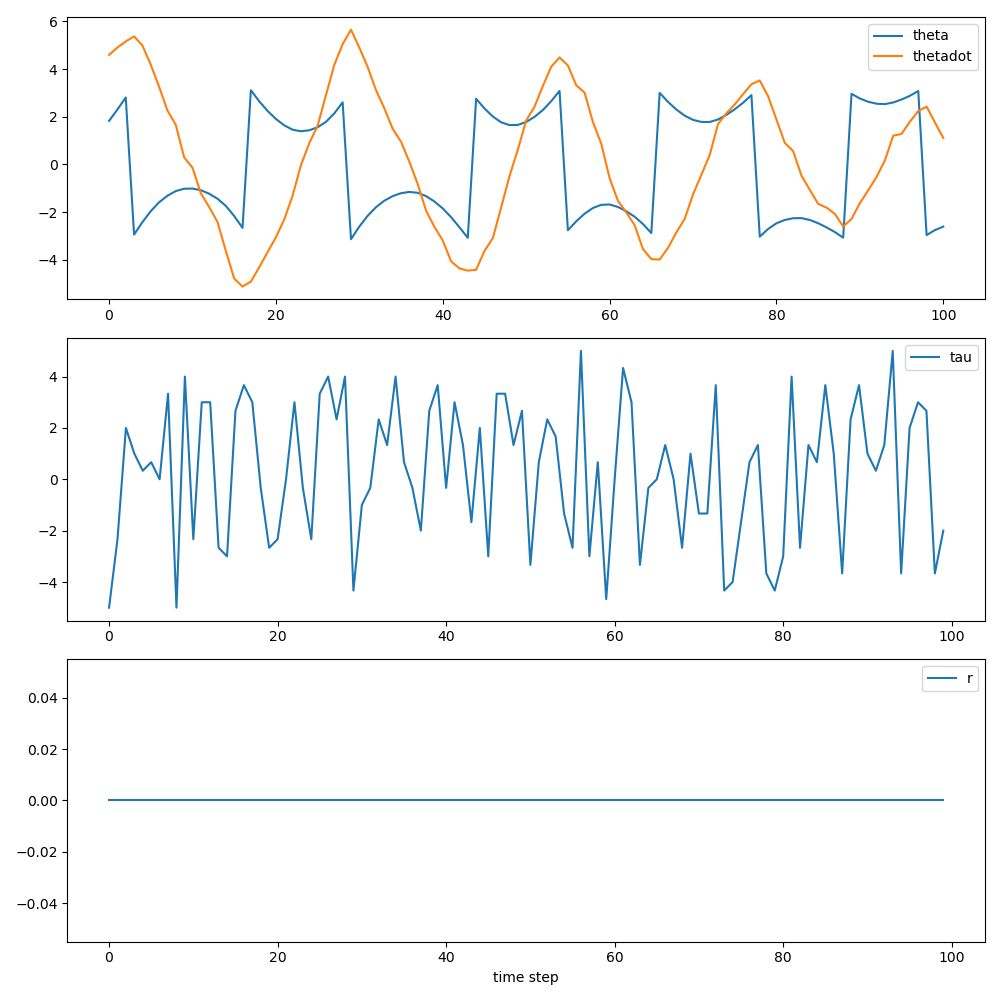
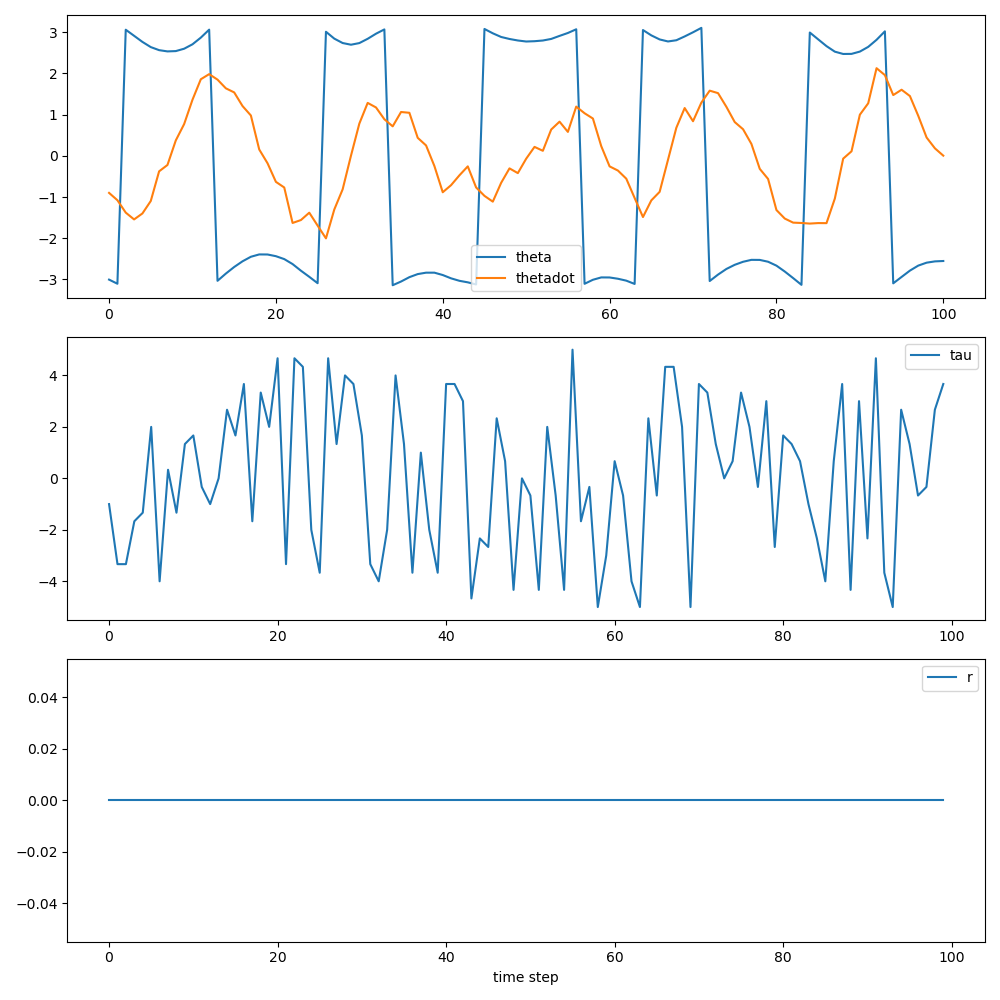
some plots

diff --git a/DQN.py b/DQN.py
@@ -1,0 +1,141 @@
+import torch 
+import torch.nn as nn
+import torch.nn.functional as F
+import torch.optim as optim
+import numpy as np
+import random 
+from collections import namedtuple, deque 
+import itertools
+
+
+device = torch.device("cuda" if torch.cuda.is_available() else "cpu")
+
+Transition = namedtuple('Transition', ('state', 'action', 'next_state', 'reward'))
+
+# create the Deep Q network
+class DeepQNet(nn.Module):
+    def __init__(self, num_state, num_action):
+        super(DeepQNet,self).__init__()
+        num_nodes = 64
+        self.layer1 = nn.Linear(num_state,num_nodes)
+        self.layer2 = nn.Linear(num_nodes,num_nodes)
+        self.layer3 = nn.Linear(num_nodes,num_action)
+
+    def forward(self, x):
+        # mapping state to action values
+        x = torch.tanh(self.layer1(x))
+        x = torch.tanh(self.layer2(x))
+        return self.layer3(x)
+
+# Replay buffer for storing experience
+class ReplayBuffer():
+    def __init__(self, capacity):
+        self.capacity = capacity
+        self.memory = deque(maxlen=capacity)
+
+    def add(self, *args):
+        # add a new memory
+        self.memory.append(Transition(*args))
+
+    def sample(self, batch_size):
+        # sample a random memory
+        return random.sample(self.memory, batch_size)
+
+    def __len__(self):
+        # return length of memory
+        return len(self.memory)
+
+# DQN agent that interacts with the environment
+class Agent():
+    def __init__(self, num_state, num_action, alpha, gamma, batch_size):
+        self.num_state = num_state
+        self.num_action = num_action
+        self.batch_size = batch_size
+        self.gamma = gamma
+
+        self.local_net = DeepQNet(num_state, num_action).to(device)
+        self.target_net = DeepQNet(num_state, num_action).to(device)
+
+        self.optimizer = optim.Adam(self.local_net.parameters(), alpha)
+
+        self.memory = ReplayBuffer(10000)
+
+        self.steps = 0
+
+    def choose_action(self, state):
+        if not torch.is_tensor(state): state = torch.tensor(state, dtype=torch.float).unsqueeze(0)
+
+        with torch.no_grad():
+            return self.local_net(state).max(1)[1].view(1, 1)
+
+    def optimize(self):
+        if len(self.memory) < self.batch_size: return
+
+        transitions = self.memory.sample(self.batch_size)
+        batch = Transition(*zip(*transitions))
+
+        non_final_mask = torch.tensor(tuple(map(lambda s: s is not None, batch.next_state)), device=device, dtype=torch.bool) # transitions that do not lead to terminal states
+        non_final_next_states = torch.cat([s for s in batch.next_state if s is not None]) 
+
+        # values of states, actions, and rewards
+        state_batch = torch.cat(batch.state)
+        action_batch = torch.cat(batch.action)
+        reward_batch = torch.cat(batch.reward)
+        reward_batch = reward_batch.flatten()
+
+        state_action_values = self.local_net(state_batch).gather(1, action_batch)
+        next_state_values = torch.zeros(self.batch_size)
+
+        with torch.no_grad():
+            next_state_values[non_final_mask] = self.target_net(non_final_next_states).max(1)[0]
+        
+        expected_state_action_values = (next_state_values * self.gamma) + reward_batch
+
+        criterion = nn.SmoothL1Loss()
+        loss = criterion(state_action_values,expected_state_action_values.unsqueeze(1))
+        self.optimizer.zero_grad()
+        loss.backward()
+
+        # gradient clipping
+        # clip_value = 1
+        # for p in self.local_net.parameters():
+        #     p.register_hook(lambda grad: torch.clamp(grad, -clip_value, clip_value))
+
+        nn.utils.clip_grad_value_(self.local_net.parameters(), 100)
+
+        self.optimizer.step()
+
+    def train(self, num_episodes, env, reset_num):
+        rewards = []
+
+        for ep in range(num_episodes):
+            print(ep)
+            state = env.reset()
+            state = torch.tensor(state, dtype=torch.float, device=device).unsqueeze(0)
+            reward = 0
+
+            for t in itertools.count():
+                # print(ep, t)
+                action = self.choose_action(state)
+
+                next_state, reward_t, done = env.step(action.item())
+                next_state = torch.tensor(next_state, dtype=torch.float, device=device).unsqueeze(0)
+                reward_t = torch.tensor([reward_t], dtype=torch.float, device=device).unsqueeze(0)
+                reward += reward_t.item()
+                
+                self.memory.add(state, action, next_state, reward_t)
+                state = next_state
+
+                self.optimize()
+
+                if done: break
+
+            rewards.append(reward)
+
+            if ep % reset_num == 0:
+                self.target_net.load_state_dict(self.local_net.state_dict())
+
+        return rewards
+
+
+

diff --git a/train_discreteaction_pendulum.py b/train_discreteaction_pendulum.py
@@ -1,0 +1,139 @@
+import DQN
+import discreteaction_pendulum
+import torch
+import itertools
+import matplotlib.pyplot as plt
+import random
+import numpy as np
+
+def main():
+    env = discreteaction_pendulum.Pendulum()
+    device = torch.device("cuda" if torch.cuda.is_available() else "cpu")
+
+    alpha = 1e-4
+    gamma = 0.95
+    batch_size = 128
+    num_episodes = 100
+    reset_num = 10
+
+    agent = DQN.Agent(env.num_states, env.num_actions, alpha, gamma, batch_size)
+    rewards = agent.train(num_episodes, env, reset_num)
+
+    # rewards = []
+
+    # for ep in range(num_episodes):
+    #     print(ep)
+    #     state = env.reset()
+    #     state = torch.tensor(state, dtype=torch.float, device=device).unsqueeze(0)
+    #     reward = 0
+
+    #     for t in itertools.count():
+    #         # print(ep, t)
+    #         action = agent.choose_action(state)
+
+    #         next_state, reward_t, done = env.step(action.item())
+    #         next_state = torch.tensor(next_state, dtype=torch.float, device=device).unsqueeze(0)
+    #         reward_t = torch.tensor([reward_t], dtype=torch.float, device=device).unsqueeze(0)
+    #         reward += reward_t.item()
+            
+    #         agent.memory.add(state, action, next_state, reward_t)
+    #         state = next_state
+
+    #         agent.optimize()
+
+    #         if done: break
+
+    #     rewards.append(reward)
+
+    #     if ep % reset_num == 0:
+    #         agent.target_net.load_state_dict(agent.local_net.state_dict())
+
+    plt.figure(1)
+    plt.plot(rewards)
+    plt.xlabel('Episodes')
+    plt.ylabel('Return')
+    plt.ylim(bottom=0)
+    plt.savefig('figures/learning_curve.png')
+
+    # create video
+    # Define a policy that maps every state to the "zero torque" action
+    policy = lambda s: (agent.choose_action(s)).item()
+
+    # Simulate an episode and save the result as an animated gif
+    env.video(policy, filename='figures/test_discreteaction_pendulum.gif')
+
+    # trajectory of agent
+    # Initialize simulation
+    s = env.reset()
+
+    # Create dict to store data from simulation
+    data = {
+        't': [0],
+        's': [s],
+        'a': [],
+        'r': [],
+    }
+
+    # Simulate until episode is done
+    done = False
+    while not done:
+        a = random.randrange(env.num_actions)
+        (s, r, done) = env.step(a)
+        data['t'].append(data['t'][-1] + 1)
+        data['s'].append(s)
+        data['a'].append(a)
+        data['r'].append(r)
+
+    # Parse data from simulation
+    data['s'] = np.array(data['s'])
+    theta = data['s'][:, 0]
+    thetadot = data['s'][:, 1]
+    tau = [env._a_to_u(a) for a in data['a']]
+
+    # Plot data and save to png file
+    fig, ax = plt.subplots(3, 1, figsize=(10, 10))
+    ax[0].plot(data['t'], theta, label='theta')
+    ax[0].plot(data['t'], thetadot, label='thetadot')
+    ax[0].legend()
+    ax[1].plot(data['t'][:-1], tau, label='tau')
+    ax[1].legend()
+    ax[2].plot(data['t'][:-1], data['r'], label='r')
+    ax[2].legend()
+    ax[2].set_xlabel('time step')
+    plt.tight_layout()
+    plt.savefig('figures/test_discreteaction_pendulum.png')
+
+    # policy
+    num = 100
+    max_theta = np.pi
+    max_thetadot = env.max_thetadot
+    theta_vals = np.linspace(-max_theta, max_theta, num)
+    thetadot_vals = np.linspace(-max_thetadot, max_thetadot, num)
+    xv, yv = np.meshgrid(theta_vals, thetadot_vals)
+    policy_grid = np.zeros((num, num))
+    value_grid = np.zeros((num, num))
+
+    for i in range(num):
+        for j in range(num):
+            s = np.array((xv[i,j], yv[i,j]))
+            policy_grid[i,j] = policy(s)
+            value_grid[i,j] = np.max(policy(s))
+
+    plt.figure(4)
+    plt.pcolor(xv, yv, policy_grid)
+    plt.xlabel('theta')
+    plt.ylabel('thetadot')
+    plt.colorbar()
+    plt.savefig('figures/policy.png')
+            
+    plt.figure(5)
+    plt.pcolor(xv, yv, value_grid)
+    plt.xlabel('theta')
+    plt.ylabel('thetadot')
+    plt.colorbar()
+    plt.savefig('figures/state-value.png')
+
+
+
+if __name__ == '__main__':
+    main()
